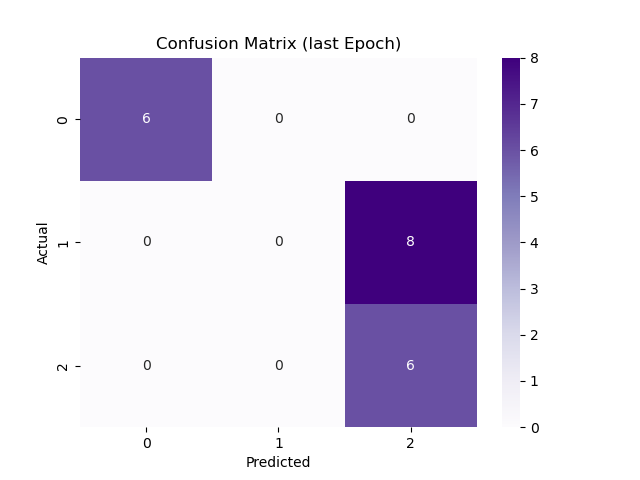
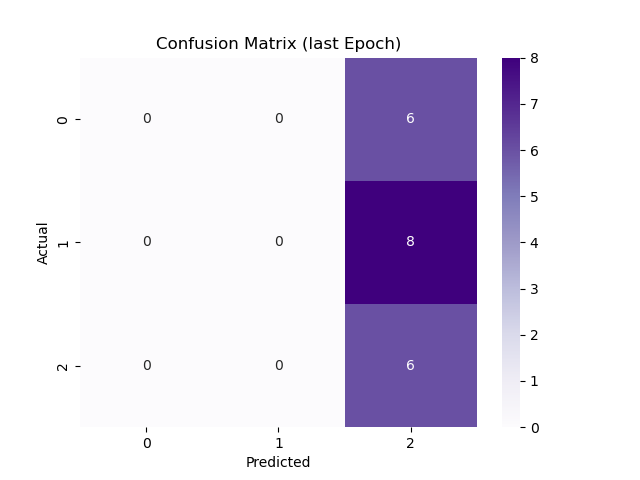
made sure to only use stratify for classification problems during train/test split

Changed region(s): [[0.5312, 0.0938, 0.75, 0.375], [0.125, 0.0938, 0.3438, 0.375]]

diff --git a/backend/driver.py b/backend/driver.py
@@ -58,13 +58,14 @@ def ml_drive(
             y = input_df[target]
             X = input_df[features]
 
-        if shuffle:
+        if shuffle and problem_type.upper() == "CLASSIFICATION":
+            # using stratify only for classification problems to ensure correct AUC calculation
             X_train, X_test, y_train, y_test = train_test_split(
                 X, y, test_size=test_size, random_state=0, shuffle=True, stratify=y
             )
         else:
             X_train, X_test, y_train, y_test = train_test_split(
-                X, y, test_size=test_size, random_state=0, shuffle=False
+                X, y, test_size=test_size, random_state=0, shuffle=shuffle
             )
         model = get_object(user_model)
         train_classical_ml_model(
@@ -125,13 +126,14 @@ def dl_drive(
             print(y.head())
 
         # Convert to tensor
-        if shuffle:
+        if shuffle and problem_type.upper() == "CLASSIFICATION":
+            # using stratify only for classification problems to ensure correct AUC calculation
             X_train, X_test, y_train, y_test = train_test_split(
                 X, y, test_size=test_size, random_state=0, shuffle=True, stratify=y
             )
         else:
             X_train, X_test, y_train, y_test = train_test_split(
-                X, y, test_size=test_size, random_state=0, shuffle=False
+                X, y, test_size=test_size, random_state=0, shuffle=shuffle
             )
 
         X_train_tensor, y_train_tensor, X_test_tensor, y_test_tensor = get_tensors(
